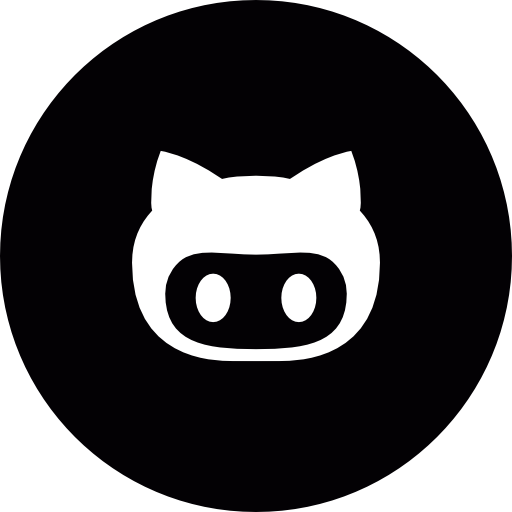
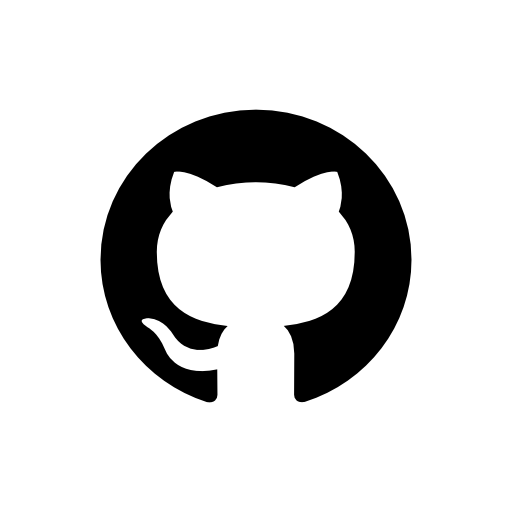
improved bar for mobile

diff --git a/landing-page.css b/landing-page.css
@@ -57,14 +57,16 @@ body {
 }
 
 .name {
-  font-size: 72px;
+  font-size: 80px;
+  text-align: center;
   animation: rattle 0.2s;
   animation-delay: 500ms;
   margin: 0;
 }
 
 .title {
-  font-size: 30px;
+  text-align: center;
+  font-size: 38px;
   margin: 0;
   animation: rattle 0.2s;
   animation-delay: 500ms;
@@ -125,7 +127,7 @@ body {
   right: 700px;
   background-size: cover;
   background-color: #88C8B3;
-  background-image: url("images/github2.png");
+  background-image: url("images/github.png");
   -webkit-animation: diagonal-github 1s forwards;
   animation: diagonal-github 1s forwards;
   animation-delay: 1s;
@@ -174,28 +176,28 @@ body {
 @media screen and (max-width: 768px) {
   .right-corner {
     width: 116vh;
-    height: 250px;
+    height: 100px;
     border: none;
-    background-color: #42AACB;
+    background-color: #4DAAC7;
   }
 
   #linkedin {
     position: absolute;
-    bottom: 22%;
-    right: 63%;
+    bottom: 0;
+    left: 2%;
     background-size: cover;
-    background-color: #93CDB1;
-    background-image: url("images/linkedin.png");
+    background-color: #4DAAC7;
+    background-image: url("images/linkedin2.png");
     animation: none;
     animation-delay: 1s;
   }
 
   #github {
     position: absolute;
-    bottom: 22%;
-    right: 21%;
+    bottom: 0;
+    right: 55%;
     background-size: cover;
-    background-color: #88C8B3;
+    background-color: #4DAAC7;
     background-image: url("images/github2.png");
     animation: none;
     animation-delay: 1s;
@@ -203,11 +205,11 @@ body {
 
   #resume {
     position: absolute;
-    bottom: 7%;
-    right: 63%;
+    bottom: 0;
+    right: 28%;
     background-size: cover;
-    background-color: #7FC4B7;
-    background-image: url("images/resume-icon.png");
+    background-color: #4DAAC7;
+    background-image: url("images/resume2.png");
     animation: none;
     animation-delay: 1s;
   }
@@ -215,13 +217,31 @@ body {
 
   #codewars {
     position: absolute;
-    bottom: 7%;
-    right: 21%;
+    bottom: 0;
+    right: 2%;
     background-size: cover;
-    background-color: #73BEBA;
-    background-image: url("images/codewars.png");
+    background-color: #4DAAC7;
+    background-image: url("images/codewars2.png");
     animation: none;
     animation-delay: 1s;
+  }
+
+  .circle {
+    height: 100px;
+    width: 100px;
+    background-color: #bbb;
+    border-radius: 0;
+    transition-duration: none;
+    transition-timing-function: none;
+  }
+
+  .circle:hover {
+  transition-duration: 500ms;
+  -webkit-transition-duration: 500ms;
+  transition-timing-function: ease;
+  -webkit-transition-timing-function: ease;
+  height: 70px;
+  width: 70px;
   }
 
 }
